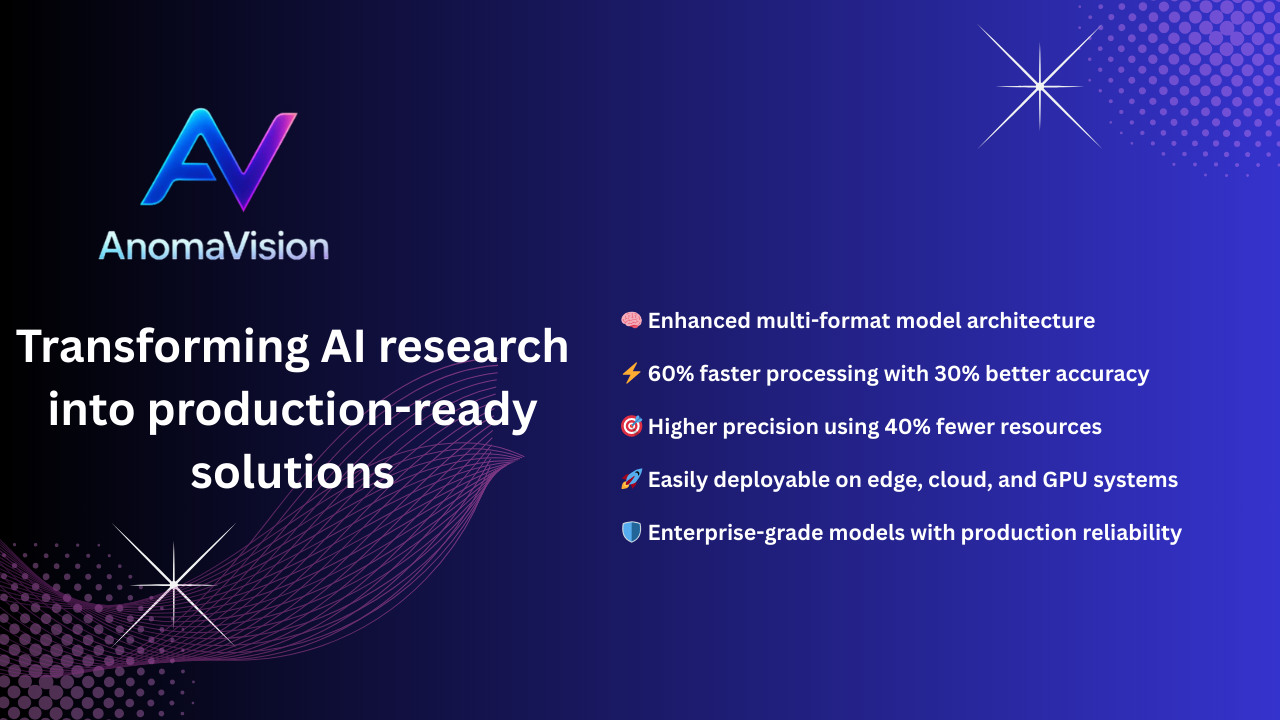
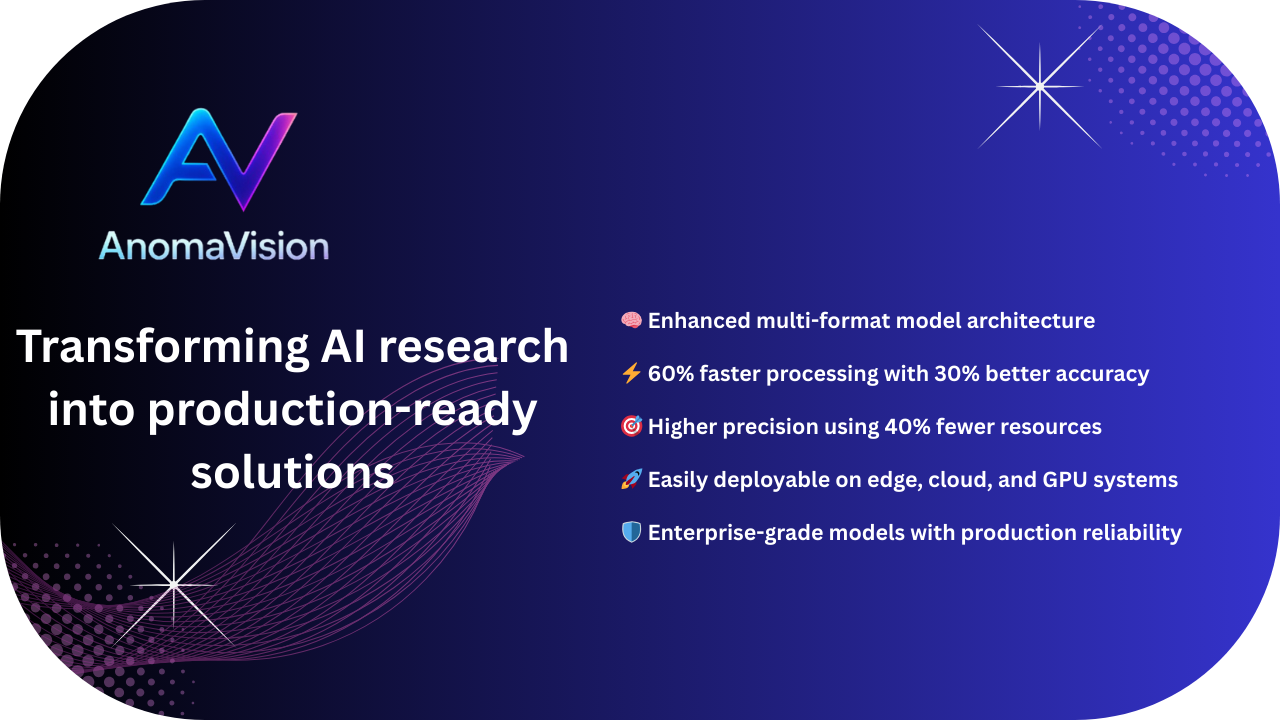
update

diff --git a/README.md b/README.md
@@ -12,7 +12,7 @@
 <!-- <img src="notebooks/example_images/AnomaVision.png" alt="bg" width="80%" style="border-radius: 15px;"/></a> -->
 <!-- <img src="notebooks/example_images/AnomaVision_banner.png" alt="bg" width="100%" style="border-radius: 15px;"/> -->
 
-<img src="notebooks/example_images/banner.png" alt="bg" width="100%" style="border-radius: 15px;"/>
+<img src="notebooks/example_images/banner.png" alt="bg" width="80%" style="border-radius: 15px;"/>
 
 **🔥 Production-ready anomaly detection powered by state-of-the-art PaDiM algorithm**  
 *Deploy anywhere, run everywhere - from edge devices to cloud infrastructure*
